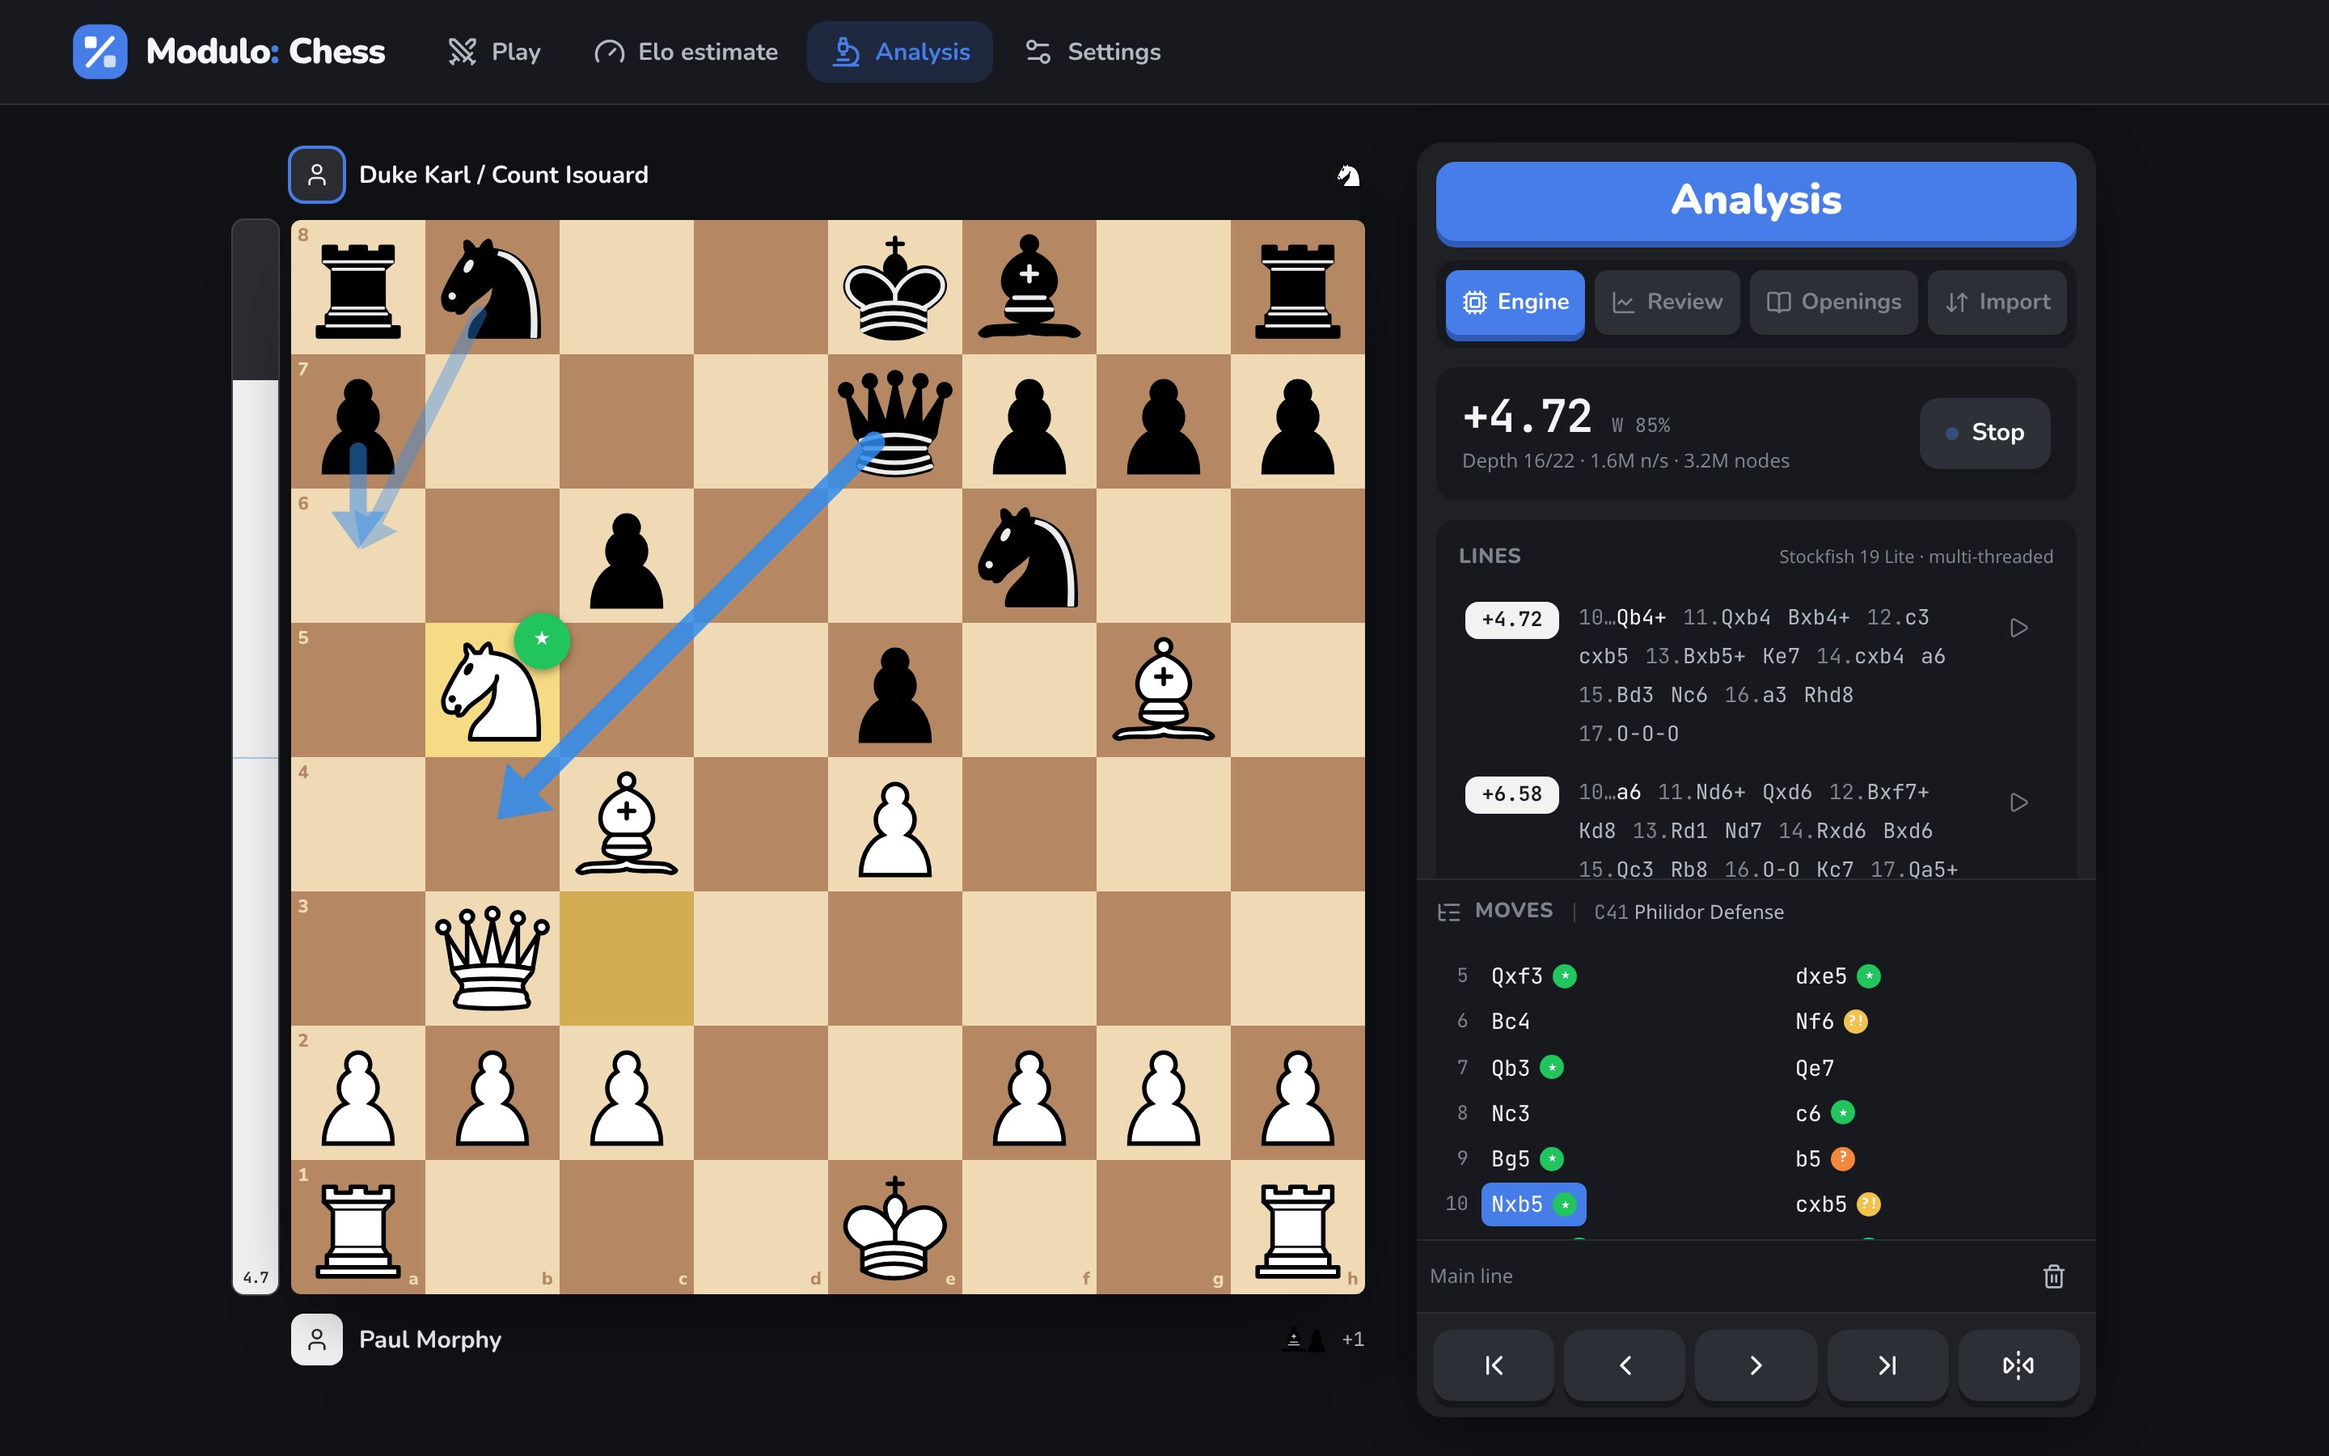
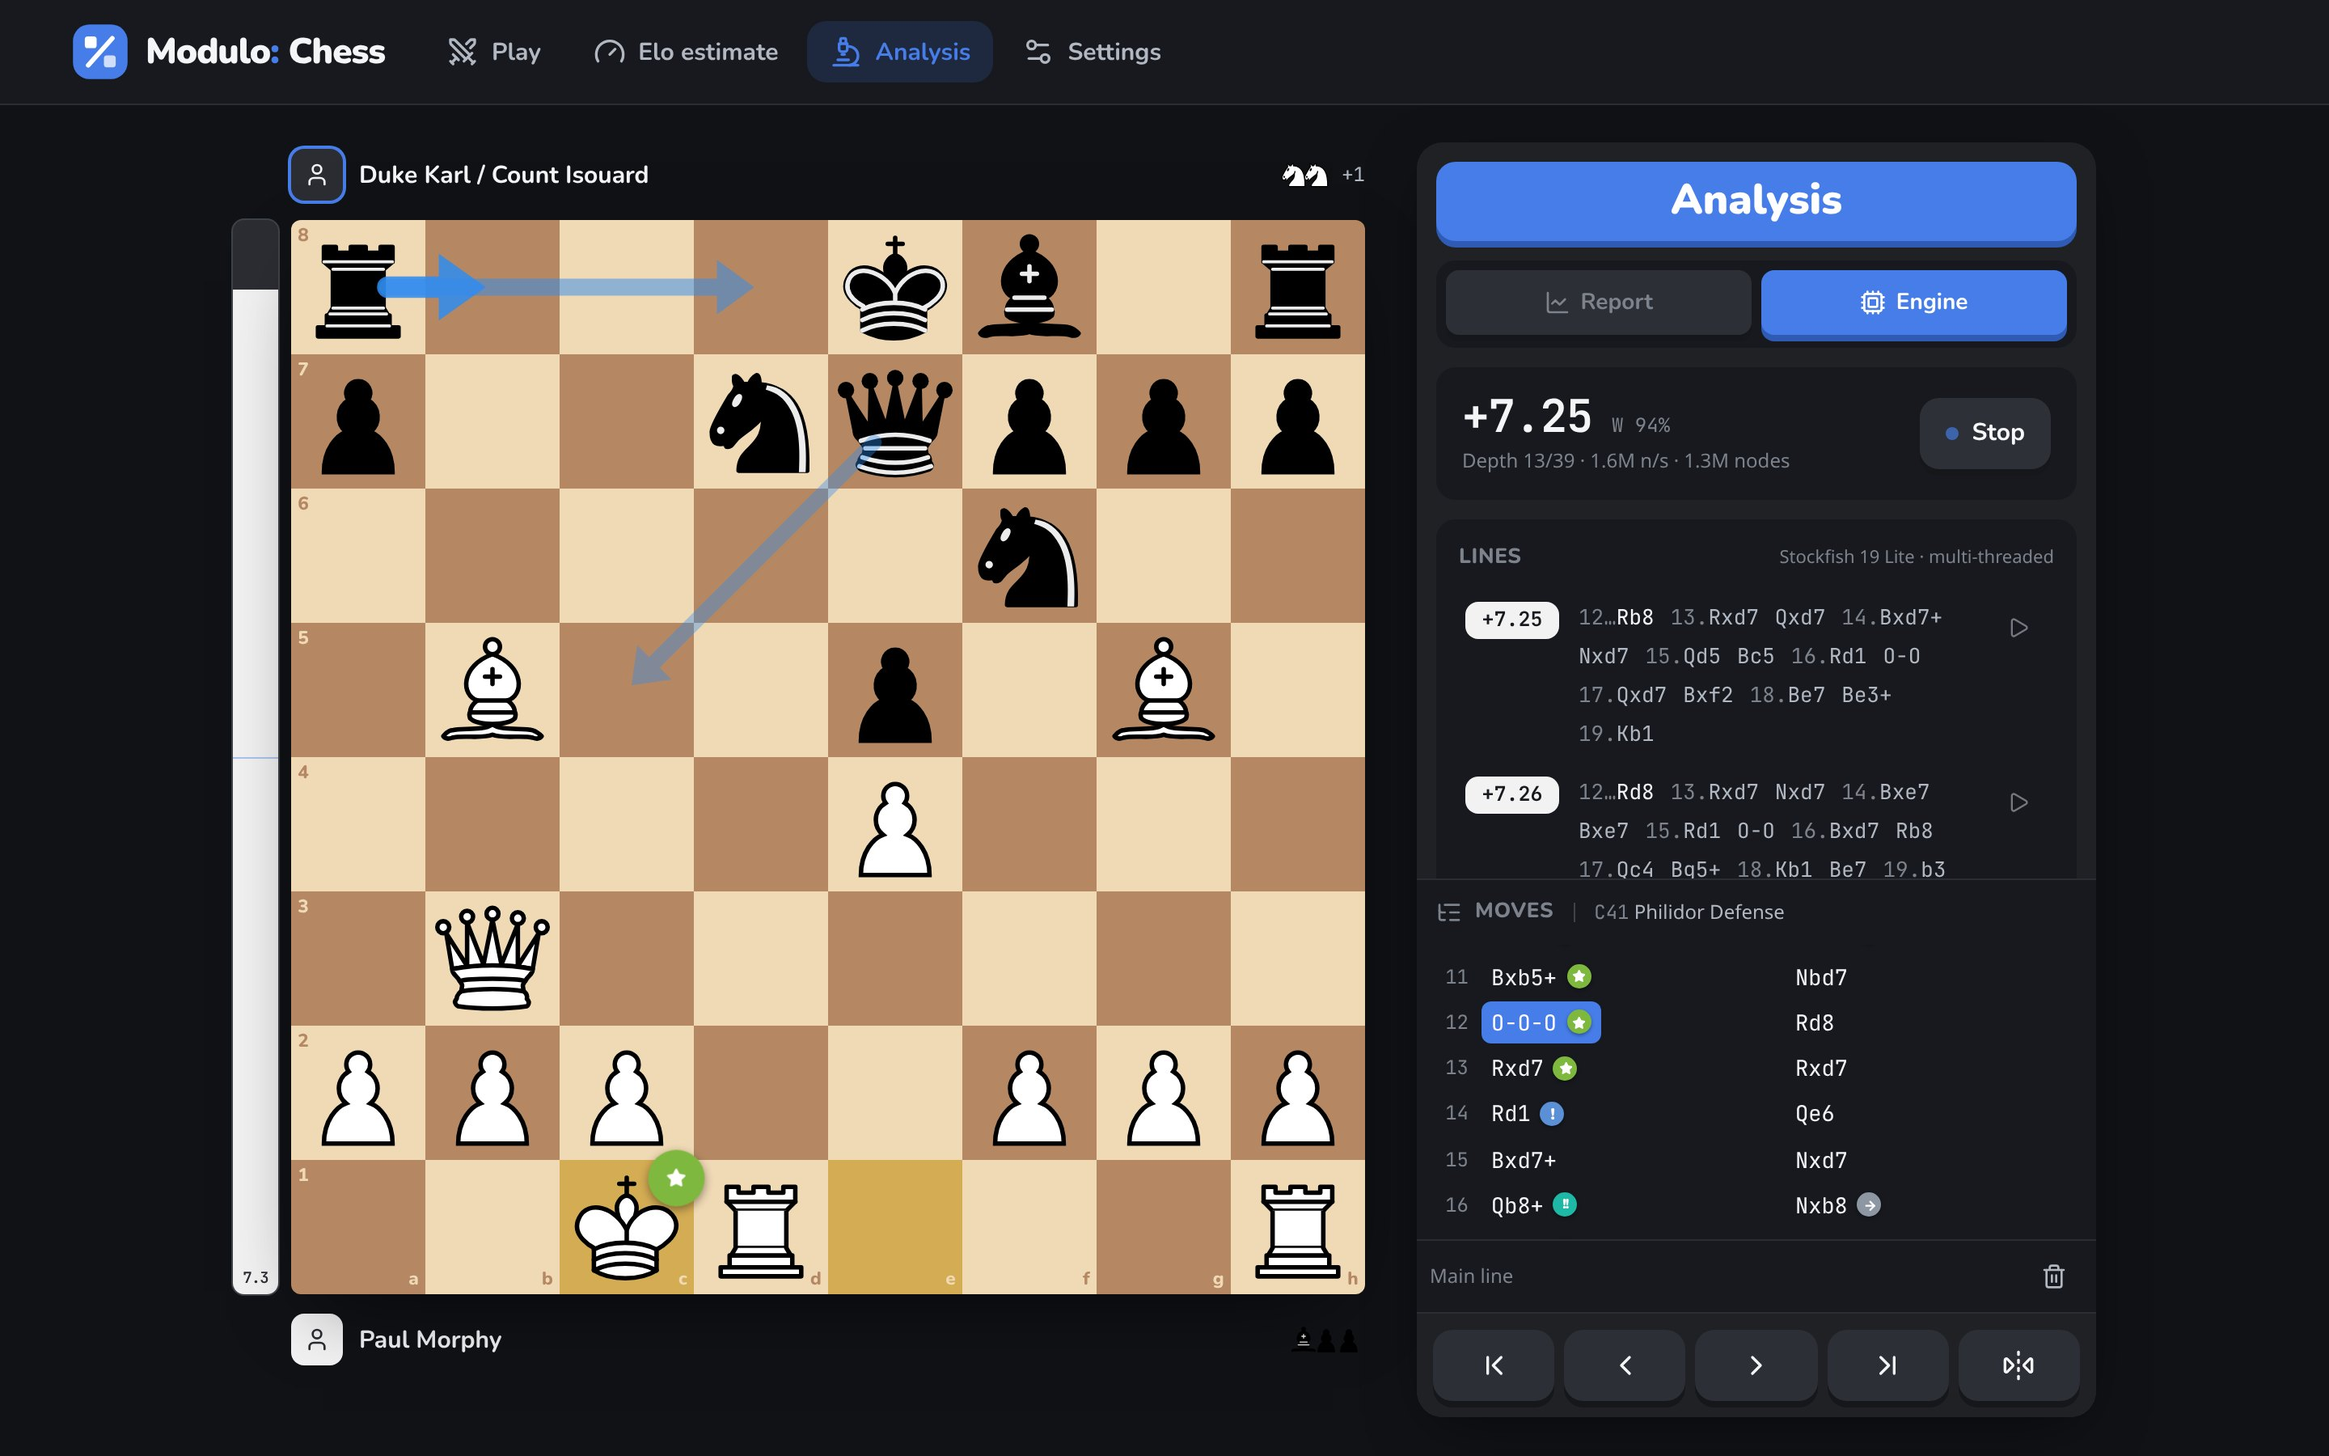
docs: document the game report, classification rules and review performance
Claude-Session: https://claude.ai/code/session_01FXBF7jtJxjrUtqt1y8qRxQ

diff --git a/README.md b/README.md
@@ -10,9 +10,9 @@ Every feature is an isolated _module_ that plugs into a small core: the board an
 | --------------------------------------------- | ---------------------------------------------- |
 | ![Play setup](docs/screenshots/play-dark.jpg) | ![Elo estimate](docs/screenshots/elo-dark.jpg) |
 
-| Game review                                      | Openings (light theme, Merida pieces)                     |
-| ------------------------------------------------ | --------------------------------------------------------- |
-| ![Game review](docs/screenshots/review-dark.jpg) | ![Openings explorer](docs/screenshots/openings-light.jpg) |
+| Game report: classifications, accuracy, Elo per player | Game report (light theme, Merida pieces)                 |
+| ------------------------------------------------------ | -------------------------------------------------------- |
+| ![Game report](docs/screenshots/review-dark.jpg)       | ![Game report, light](docs/screenshots/report-light.jpg) |
 
 | Live engine analysis                              | Mobile                                                                         |
 | ------------------------------------------------- | ------------------------------------------------------------------------------ |
@@ -44,19 +44,28 @@ Every feature is an isolated _module_ that plugs into a small core: the board an
 - **MultiPV 1–5** with principal variations in SAN. Hover or click a move to preview it on the board, double-click to play the line up to that move, and ▶ to play the first move. Best-move arrows are drawn for each line.
 - Start/stop toggle (`E`), plus threads, hash, depth limit and MultiPV, all persisted in `localStorage`.
 
-**Game review**
+**Game report** (Analysis → Report, modelled on chess.com's Game Review and WintrChess)
 
-- Evaluates every main-line position at a chosen depth (each capped at 3 s). Moves are classified **book / best / excellent / good / inaccuracy / mistake / blunder** by win-probability loss (chess.com's expected-points bands).
-- Per-side accuracy (lichess formula), an interactive eval graph with mistake markers, key moments, and "best was …" for each move.
+- Paste, upload or drop a PGN and the analysis **starts immediately**. Loading from the Import page, or pressing "Review" after a game, does the same.
+- Every move gets one of 11 classes: **brilliant, great, best, excellent, good, book, forced, inaccuracy, mistake, miss, blunder** (`src/core/analysis/classify.ts`, `report.ts`):
+  - **Loss bands** on win-probability loss: excellent < 2%, good < 5%, inaccuracy < 10%, mistake < 20%, otherwise blunder.
+  - **Brilliant:** a sound **sacrifice**, where the move newly leaves ≥ 2 pawns of material en prise beyond what it captured (`sacrifice.ts`). It must be (near-)best and leave you ≥ 40%. In an already-won position it must also be the key to the win (forces mate, or the alternatives are ≥ 10% worse).
+  - **Great:** the engine's move when the second-best is ≥ 20% worse and changes the outcome. Recaptures, escapes from check and mating moves never count.
+  - **Miss:** a mistake or blunder right after the opponent's error, when you're still doing fine afterwards (you failed to punish it rather than lost).
+  - **Forced:** the only legal move. **Book:** moves while the game stays in the bundled ECO lines.
+- **Accuracy** follows lichess' algorithm: a volatility-weighted mean averaged with a harmonic mean, so single blunders count.
+- **Estimated Elo for both players**, from move accuracy and average centipawn loss in that game (`eloEstimate.ts`). In testing, Kasparov–Topalov 1999 gave ≈2875 / ≈2500–2775 depending on depth, and Morphy's Opera Game gave ≈2900 / ≈1650.
+- An interactive eval graph with coloured markers, a move-quality table, key moments, and a per-move card ("Rd1 is the only good move…"). It shows the best alternative and its line, with a board preview, and can play it as a variation. A green "best was" arrow appears on the board, and every move in the list gets its icon.
+- **Fast:** positions are spread across parallel single-threaded Stockfish workers (cores − 1). See _Performance_ below.
 
 **Import / export**
 
-- Paste PGN or FEN (auto-detected), open a `.pgn` file, or drag-and-drop one. Multi-game files open a picker.
-- Copy the FEN, and copy or download the PGN with variations, comments and NAGs preserved (the PGN parser and serializer handle nested RAVs).
+- The Report tab's loader accepts PGN or FEN (auto-detected), a `.pgn` upload, or drag-and-drop. Multi-game files open a picker.
+- Copy or download the PGN (variations, comments and NAGs preserved) from the report. The full import/export page (with FEN copy) is still at `/import`.
 
 **Openings**
 
-- Names the current opening (ECO code + name) from 3,800+ bundled lines (CC0), with book continuations from the current position. It is built on an `OpeningExplorerProvider` interface so a database-backed explorer can be added later.
+- The Engine tab names the current opening (ECO code + name) from 3,800+ bundled lines (CC0). The full panel at `/openings` adds book continuations, and is built on an `OpeningExplorerProvider` interface so a database-backed explorer can be added later.
 
 **Design**
 
@@ -96,13 +105,13 @@ npm i -D playwright && npx playwright install chromium   # once
 npm run verify:engine -- http://localhost:3000
 ```
 
-This drives a real Chromium through 16 checks:
+This drives a real Chromium through 17 checks:
 
 - cross-origin isolation and the multi-threaded boot
 - 3 MultiPV lines that deepen with nodes/sec
 - correct lines after rapid position changes
 - a clean stop
-- PGN import with variations, then a full-game review
+- loading a PGN with variations in the Report tab: auto-analysis, move classes, an Elo estimate for both players, and key moments
 - drag-and-drop and keyboard-only moves
 - a reply from a 400-Elo (custom-weakened) engine opponent
 - a quick Elo estimate that ends in a rating
@@ -126,7 +135,7 @@ src/
 │   ├── board/                Play panel, engine opponent controller, sounds + hotkeys
 │   ├── elo-estimate/         Quick / full Elo estimate: panel, session, background evaluator
 │   ├── engine/               Engine panel + live-analysis controller
-│   ├── game-review/          Review panel, eval graph, review runner
+│   ├── game-review/          Game report: loader, parallel review runner, eval graph
 │   ├── import-export/        PGN/FEN import & export
 │   ├── openings/             ECO lookup, explorer provider interface, bundled data
 │   └── settings/             Settings panel + theme controller
@@ -159,7 +168,7 @@ export interface ModuleManifest {
   name: string; // nav / tab label
   description: string; // page metadata + header
   icon: ComponentType; // lucide-react icon
-  route?: string; // e.g. "/review"; "/" = default module
+  route?: string; // e.g. "/analysis"; "/" = default module
   order: number; // order within its group
   group?: string; // top-bar page it belongs to (defaults to its id)
   panel?: ComponentType; // shown in the page's panel
@@ -169,7 +178,7 @@ export interface ModuleManifest {
 }
 ```
 
-The registry (`createRegistry(manifests, navGroups)`) validates ids and routes so mistakes fail the build. Each **nav group** is one top-bar page; modules that share a group become tabs in that page's panel. For example, `engine`, `game-review`, `openings` and `import-export` all sit under **Analysis**. The shell derives everything else from the manifests: the top bar, panel tabs, keyboard shortcuts, background controllers and the statically generated routes, via `generateStaticParams` in `app/[[...slug]]/page.tsx`. The workspace lives in the root layout, so the board, engine and review state survive navigation between modules.
+The registry (`createRegistry(manifests, navGroups)`) validates ids and routes so mistakes fail the build. Each **nav group** is one top-bar page; modules that share a group become tabs in that page's panel. For example, `game-review` (Report) and `engine` are the two tabs under **Analysis**. `openings` and `import-export` also belong to that group but are `hidden`: they stay routable (`/openings`, `/import`) without cluttering the tab bar. The shell derives everything else from the manifests: the top bar, panel tabs, keyboard shortcuts, background controllers and the statically generated routes, via `generateStaticParams` in `app/[[...slug]]/page.tsx`. The workspace lives in the root layout, so the board, engine and review state survive navigation between modules.
 
 ### Adding a module
 
@@ -208,7 +217,24 @@ That's all. `/puzzles` is generated at build time, and the module appears in the
   - `search(request, { onUpdate, supersede })` returns a handle with a `result` promise and `cancel()`.
   - **Race-freedom invariant:** jobs run strictly one at a time, and a new `go` is never sent until the previous search's `bestmove` has arrived. Every `info` line can therefore be attributed to exactly one search. A superseding search drops queued searches and sends `stop` to the running one. Late `info` lines from cancelled searches are ignored. Unit tests fire 25 overlapping requests at an async fake engine and assert that no lines leak between searches and that `go` never overlaps.
 - **Normalization.** UCI scores are relative to the side to move; they are converted to White's point of view (`mate 0` means the side to move is mated). Win % uses the lichess/Stockfish logistic curve (`k = 0.00368208`, cp clamped to ±1000).
-- **Roles.** Live analysis and game review share the `analysis` engine (user threads/hash); review pauses live analysis. The play-mode opponent has its own `play` engine (1 thread, 16 MB, strength-limited), so playing never disturbs analysis settings.
+- **Roles.** Live analysis and the Elo estimator use the `analysis` engine (user threads/hash). The play-mode opponent has its own `play` engine (1 thread, 16 MB, strength-limited). Game reports use a pool of `review-N` workers (single-threaded builds).
+
+### Performance
+
+Game review evaluates every main-line position at a fixed depth (default 16; Fast 12 and Deep 20 are available):
+
+- **Parallel workers.** `cores − 1` single-threaded Stockfish workers each search different positions. Many short searches scale far better this way than one engine with several threads. All cores was only about 5% faster and made the UI stutter, so one core is left free.
+- **Cheap "great" detection.** Each position gets one MultiPV-1 search. Only when the player then found the best move is there a second, reduced-depth search over the remaining moves (UCI `searchmoves`), to get the second-best score. This is cheaper than running MultiPV 2 everywhere. Note that `searchmoves` must be the last `go` argument: Stockfish reads every following token as a move, and a `depth` after it was silently ignored, giving an infinite search.
+- **Reproducible.** Worker k always owns positions k, k+W, k+2W… and walks them backwards, with its hash cleared once. Later positions lie inside earlier positions' search trees, so the hash keeps helping, and the same game always gives the same report on the same machine.
+- **Cached.** Evaluations are cached per position and depth, so re-running a report is instant.
+
+Measured on a 4-core machine, Kasparov–Topalov 1999 (88 positions):
+
+|                                     | before                                        | now                                         |
+| ----------------------------------- | --------------------------------------------- | ------------------------------------------- |
+| depth 14                            | 12.0 s (1 engine × 3 threads, best move only) | **8.2–9.4 s**, including second-best probes |
+| depth 16                            | —                                             | **≈18 s**                                   |
+| Opera Game, depth 16 (34 positions) | —                                             | ≈6–7 s                                      |
 
 ## Deployment
 
@@ -254,7 +280,7 @@ vercel git connect   # deploy automatically on push
 vercel --prod        # first production deploy
 ```
 
-After deploying, open the site and run `crossOriginIsolated` in the console; it should print `true`. The Analysis → Engine tab should show `· multi-threaded`.
+After deploying, open the site and run `crossOriginIsolated` in the console; it should print `true`. The Analysis → Engine tab (`/engine`) should show `· multi-threaded`.
 
 ## Licensing
 
@@ -285,5 +311,6 @@ The design is ready for these; none of them are built yet. Domain models and rep
 - The lite NNUE is weaker than full Stockfish (still far beyond human strength). Depth/nps are lower in single-threaded mode, for example on hosts without COOP/COEP or in browsers that refuse `SharedArrayBuffer`.
 - From 1320 up, play uses Stockfish's own `UCI_Elo` calibration (engine-vs-engine, long time controls), which can feel stronger than human ratings at the low end. Levels below 1320 come from Modulo's own weakening model, which is tuned by hand rather than calibrated against rated humans.
 - Elo estimates are heuristic. The accuracy and centipawn-loss curves are approximations of typical online ratings, and short or one-sided games carry little information. That's why a range is shown, and why the full 3-game mode is more reliable.
-- Accuracy uses a plain mean of per-move accuracy (lichess uses a volatility-weighted blend), so numbers differ slightly from lichess and chess.com.
+- Reports run the lite NNUE at depth 16 in the browser, where chess.com uses a full-strength engine on servers. In very sharp positions the evaluation, and therefore some classes, can differ from chess.com. The thresholds for brilliant, great and miss are my own reading of chess.com's published definitions (their exact rules are not public).
+- The per-game Elo estimate is heuristic and works best on games of 20+ moves. It reflects how accurately someone played in _this_ game, which depends on how sharp the game was.
 - Under Partial Prerendering, unknown URLs show the in-app "Off the board" message but return HTTP 200.
